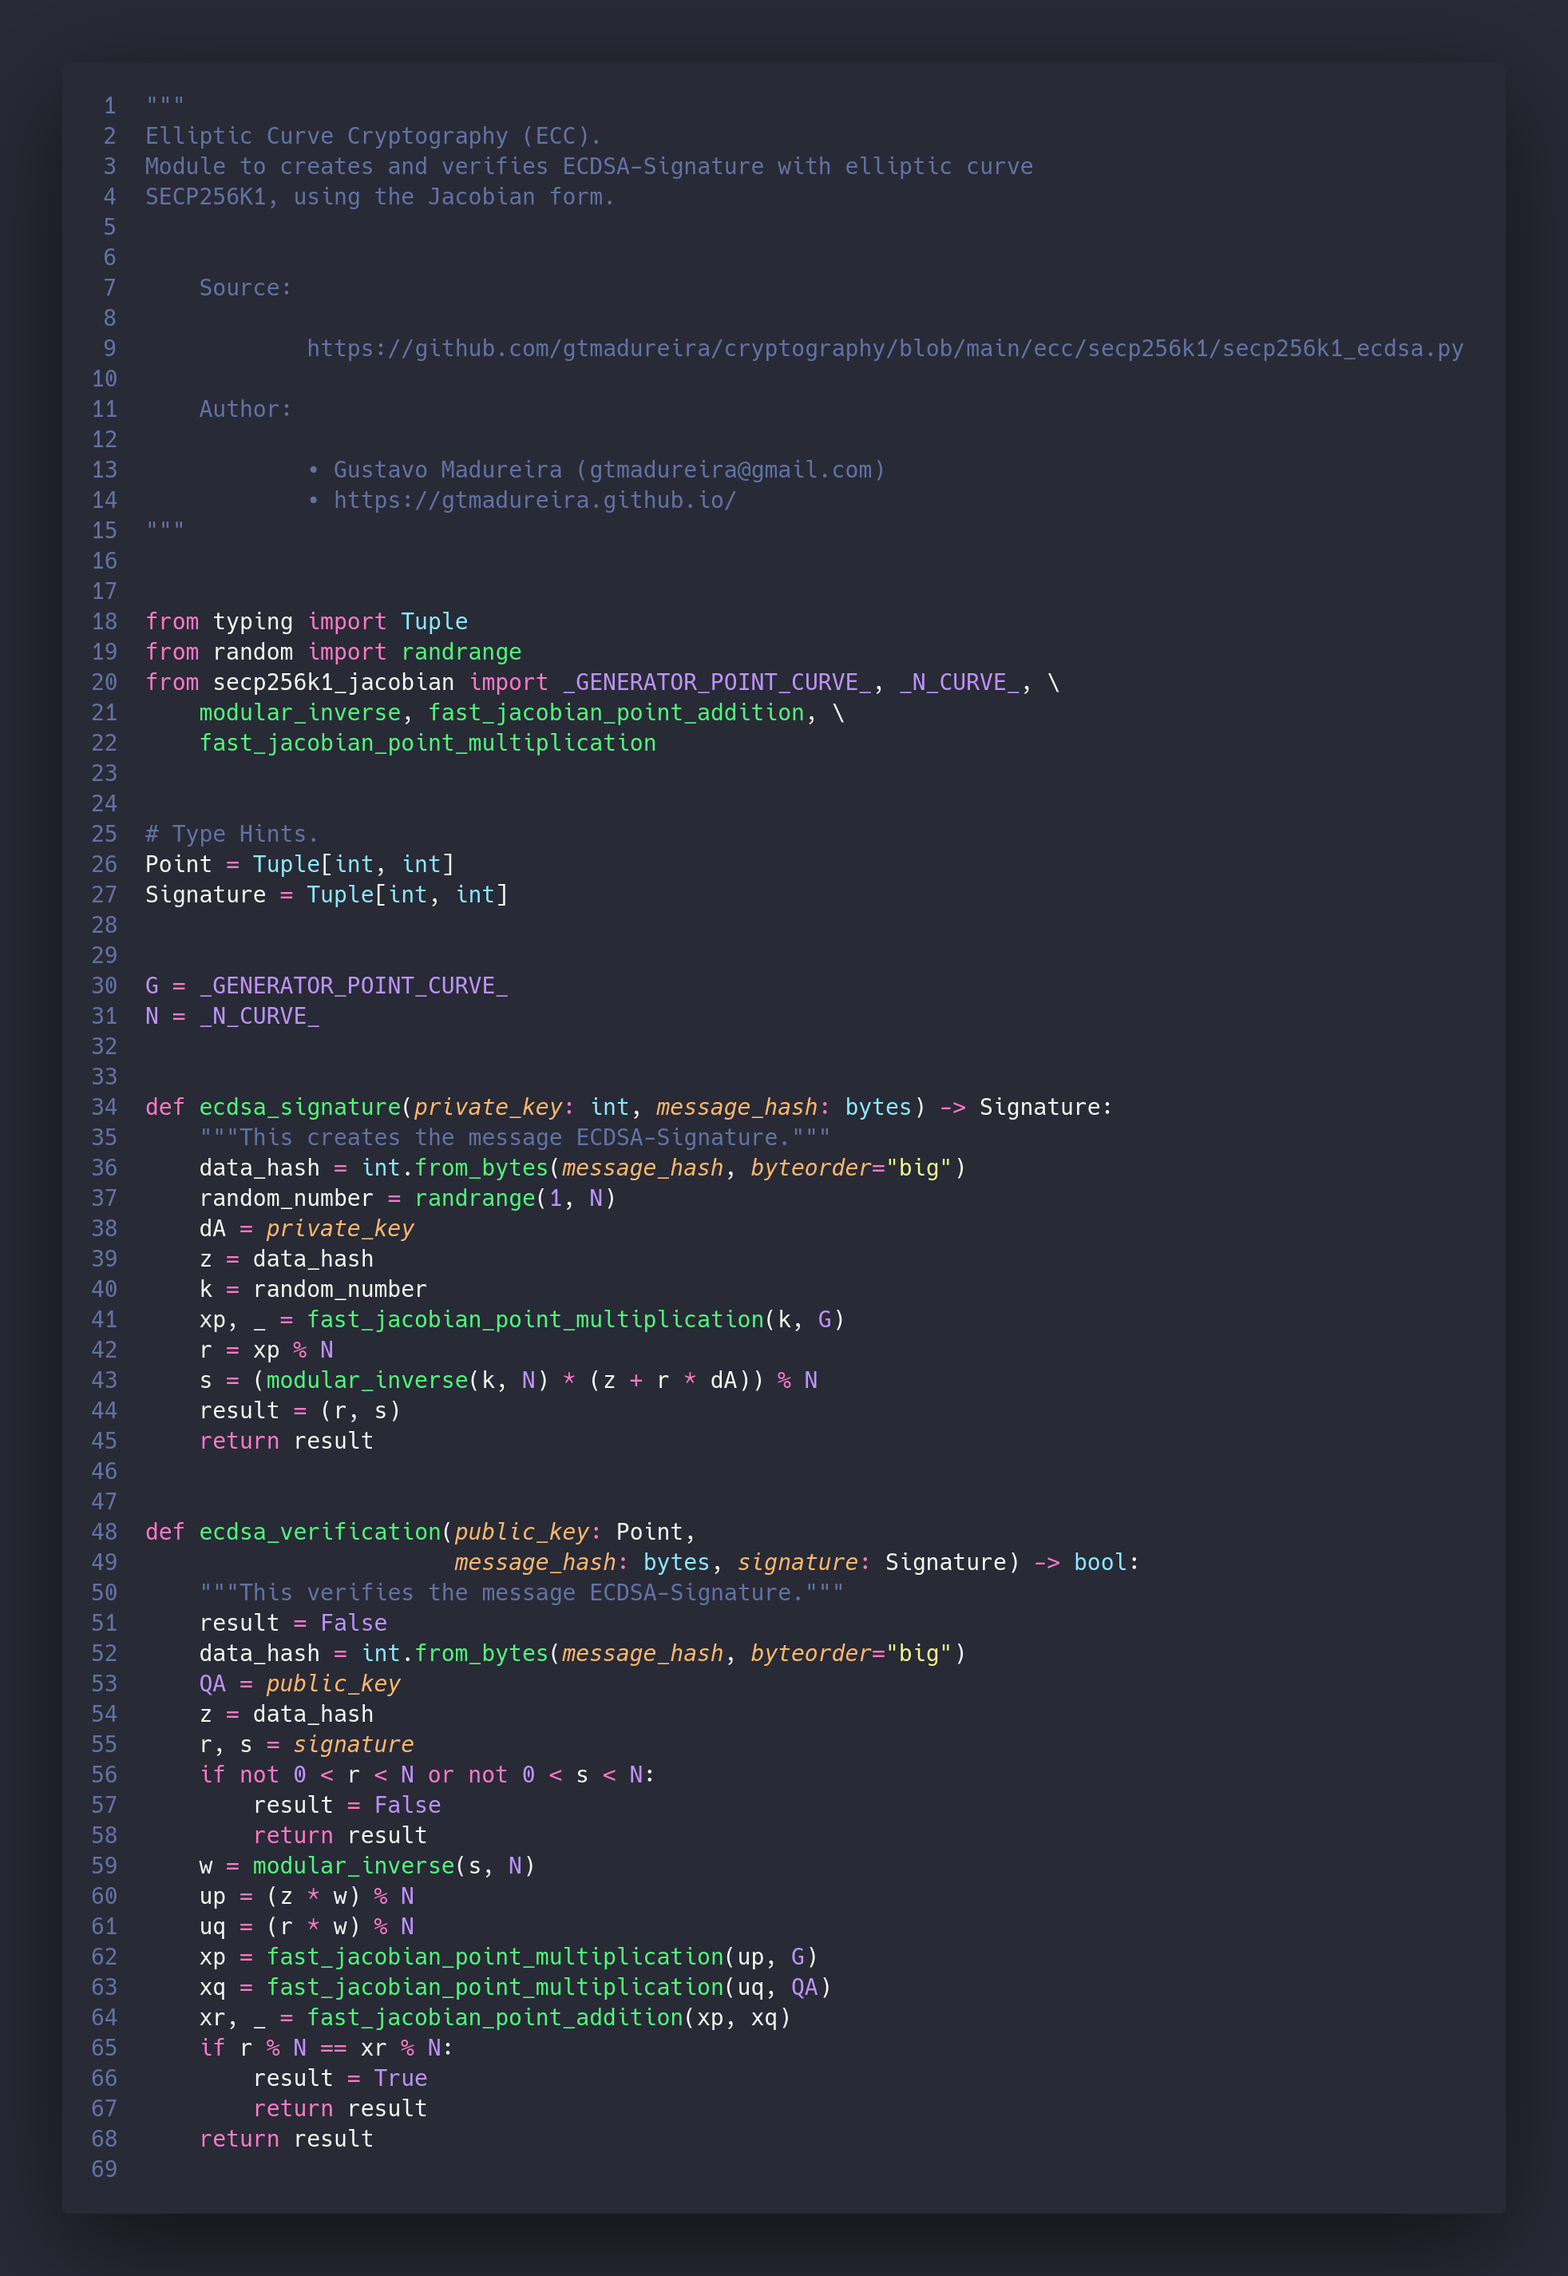
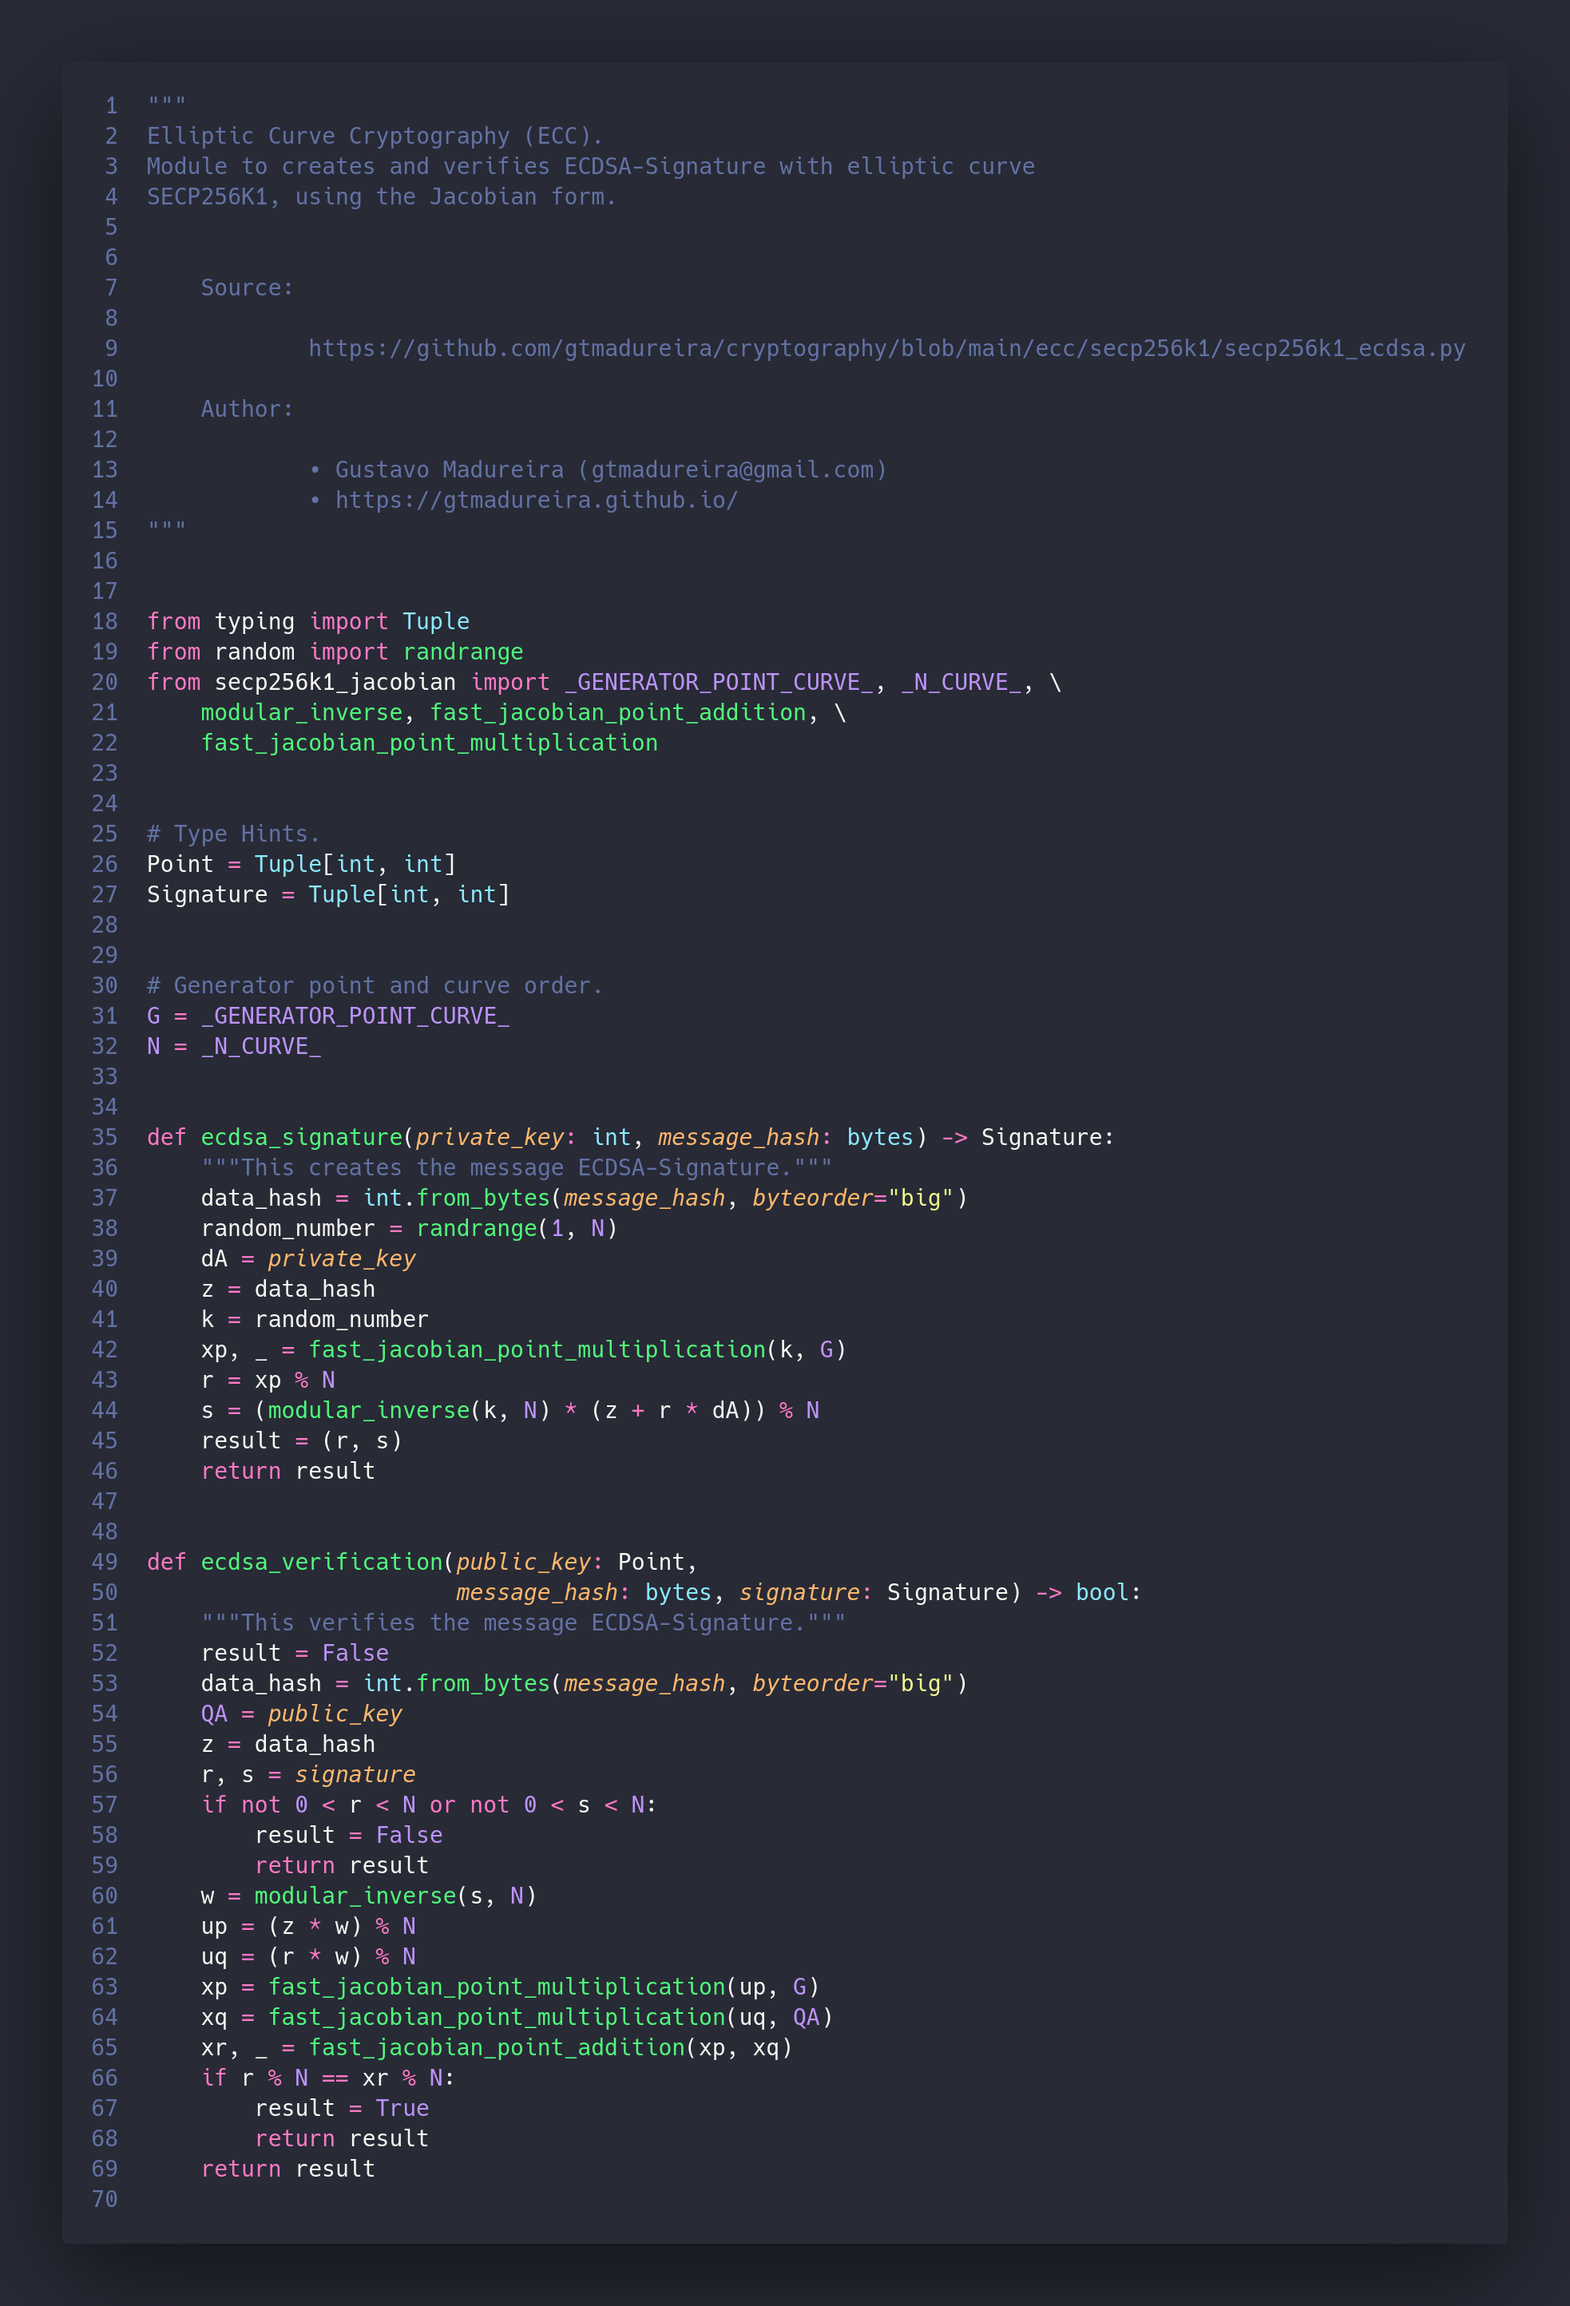
Elliptic Curve Cryptography (ECC), with curve secp256k1.

diff --git a/ecc/secp256k1/secp256k1_jacobian.py b/ecc/secp256k1/secp256k1_jacobian.py
@@ -106,8 +106,8 @@ def modular_inverse(k: int, p: int) -> int:
     """
     Extended Euclidean algorithm/division on the elliptic curve.
 
-    Returns the multiplicative inverse of {k mod p}. Where the only
-    integer {x} is defined such that (k * x) % p == 1.
+    Returns the multiplicative inverse of {k % p}. Where the only
+    integer {x} is defined such that {(k * x) % p == 1}.
 
     {k} must be non-zero and {p} must be a prime.
     """
@@ -143,8 +143,8 @@ def modular_inverse(k: int, p: int) -> int:
 
 def is_infinite(point: Point) -> bool:
     """
-    Returns {True} if the {point} at infinity on the elliptic curve,
-    otherwise it returns {False}.
+    Returns True if the point at infinity on the elliptic curve,
+    otherwise it returns False.
     """
     result = point is _POINT_INFINITY_CURVE_ or 0 in point
     return result
@@ -152,8 +152,8 @@ def is_infinite(point: Point) -> bool:
 
 def is_on_curve(point: Point) -> bool:
     """
-    Returns {True} if the {point} lies on the elliptic curve, otherwise
-    it returns {False}.
+    Returns True if the point lies on the elliptic curve, otherwise it
+    returns False.
     """
     if is_infinite(point):
         result = True
@@ -165,7 +165,7 @@ def is_on_curve(point: Point) -> bool:
 
 def x(point: Point) -> int:
     """
-    Refers to {x} coordinate of {point}, assuming it is not at infinity,
+    Refers to {x} coordinate of point, assuming it is not at infinity,
     then returns {x}.
     """
     assert not is_infinite(point)
@@ -177,7 +177,7 @@ def x(point: Point) -> int:
 
 def y(point: Point) -> int:
     """
-    Refers to {y} coordinate of {point}, assuming it is not at infinity,
+    Refers to {y} coordinate of point, assuming it is not at infinity,
     then returns {y}.
     """
     assert not is_infinite(point)
@@ -189,8 +189,8 @@ def y(point: Point) -> int:
 
 def has_even_y(point: Point) -> bool:
     """
-    Where {point} is not at infinity, it returns {True} if
-    {yp mod 2 = 0}, otherwise it returns {False}.
+    Where point is not at infinity, it returns True if {yp mod 2 = 0},
+    otherwise it returns False.
     """
     assert not is_infinite(point)
     assert is_on_curve(point)
@@ -201,8 +201,8 @@ def has_even_y(point: Point) -> bool:
 
 def is_infinite_jacobian(point: Jacobian_Coordinate) -> bool:
     """
-    Returns {True} if the {point} at infinity on the elliptic curve over
-    Jacobian coordinate, otherwise it returns {False}.
+    Returns True if the point at infinity on the elliptic curve over
+    Jacobian coordinate, otherwise it returns False.
     """
     _, _, zp = point
     result = point is _POINT_INFINITY_JACOBIAN_ or zp == 0
@@ -211,8 +211,8 @@ def is_infinite_jacobian(point: Jacobian_Coordinate) -> bool:
 
 def is_on_curve_jacobian(point: Jacobian_Coordinate) -> bool:
     """
-    Returns {True} if the {point} lies on the elliptic curve over
-    Jacobian coordinate, otherwise it returns {False}.
+    Returns True if the point lies on the elliptic curve over Jacobian
+    coordinate, otherwise it returns False.
     """
     if is_infinite_jacobian(point):
         result = True
@@ -227,7 +227,7 @@ def is_on_curve_jacobian(point: Jacobian_Coordinate) -> bool:
 
 def is_affine_jacobian(point: Jacobian_Coordinate) -> bool:
     """
-    Returns {True} if the {point} is affine form in Jacobian coordinate
+    Returns True if the point is affine form in Jacobian coordinate
     (x, y, 1).
     """
     assert not is_infinite_jacobian(point)
@@ -238,8 +238,8 @@ def is_affine_jacobian(point: Jacobian_Coordinate) -> bool:
 
 def to_jacobian(point: Point) -> Jacobian_Coordinate:
     """
-    Convert an {affine point} to {Jacobian coordinate}, or returns
-    (0, 1, 0) if at infinity.
+    Convert an affine point to Jacobian coordinate, or returns point at
+    infinity.
 
     A Jacobian coordinate is represented as (x, y, z).
     """
@@ -255,8 +255,8 @@ def to_jacobian(point: Point) -> Jacobian_Coordinate:
 
 def from_jacobian(point: Jacobian_Coordinate) -> Point:
     """
-    Convert a {Jacobian coordinate} to {affine point}, or returns (0, 0)
-    if at infinity.
+    Convert a Jacobian coordinate to affine point, or returns point at
+    infinity.
 
     An affine point is represented as (x, y).
     """
@@ -281,7 +281,7 @@ def jacobian_point_doubling(
     Point doubling on the elliptic curve over Jacobian coordinate
     (x, y, z).
 
-    It doubles {Point-P}.
+    It doubles Point-P.
     """
     assert is_on_curve_jacobian(point_p)
     if is_infinite_jacobian(point_p):
@@ -314,7 +314,7 @@ def jacobian_point_addition_mixed(
     coordinate (x, y, z) and affine form in Jacobian coordinate
     (x, y, 1).
 
-    It adds {Point-P} with {Point-Q}.
+    It adds Point-P with Point-Q.
     """
     assert is_on_curve_jacobian(point_p)
     assert is_on_curve_jacobian(point_q)
@@ -354,7 +354,7 @@ def jacobian_point_addition(
     Point addition on the elliptic curve over Jacobian coordinate
     (x, y, z).
 
-    It adds {Point-P} with {Point-Q}.
+    It adds Point-P with Point-Q.
     """
     assert is_on_curve_jacobian(point_p)
     assert is_on_curve_jacobian(point_q)
@@ -401,10 +401,10 @@ def jacobian_point_addition(
 
 def fast_jacobian_point_addition(point_p: Point, point_q: Point) -> Point:
     """
-    Fast point addition on the elliptic curve over Jacobian coordinate
-    (x, y, z).
+    Fast point addition on the elliptic curve over affine (x, y) to
+    Jacobian coordinate (x, y, z).
 
-    It adds {Point-P} with {Point-Q}.
+    It adds Point-P with Point-Q.
     """
     assert is_on_curve(point_p)
     assert is_on_curve(point_q)
@@ -425,10 +425,10 @@ def fast_jacobian_point_addition(point_p: Point, point_q: Point) -> Point:
 
 def fast_jacobian_point_multiplication(scalar: int, point: Point) -> Point:
     """
-    Fast scalar multiplication of {point} on the elliptic curve over
-    Jacobian coordinate (x, y, z).
+    Fast scalar multiplication of point on the elliptic curve over
+    affine (x, y) to Jacobian coordinate (x, y, z).
 
-    It doubles {Point-P} and adds {Point-P} with {Point-Q}.
+    It doubles Point-P and adds Point-P with Point-Q.
     """
     assert is_on_curve(point)
     if scalar == 0 or is_infinite(point):

diff --git a/ecc/secp256k1/secp256k1_weierstrass.py b/ecc/secp256k1/secp256k1_weierstrass.py
@@ -100,8 +100,8 @@ def modular_inverse(k: int, p: int) -> int:
     """
     Extended Euclidean algorithm/division on the elliptic curve.
 
-    Returns the multiplicative inverse of {k mod p}. Where the only
-    integer {x} is defined such that (k * x) % p == 1.
+    Returns the multiplicative inverse of {k % p}. Where the only
+    integer {x} is defined such that {(k * x) % p == 1}.
 
     {k} must be non-zero and {p} must be a prime.
     """
@@ -137,8 +137,8 @@ def modular_inverse(k: int, p: int) -> int:
 
 def is_infinite(point: Point) -> bool:
     """
-    Returns {True} if the {point} at infinity on the elliptic curve,
-    otherwise it returns {False}.
+    Returns True if the point at infinity on the elliptic curve,
+    otherwise it returns False.
     """
     result = point is _POINT_INFINITY_CURVE_ or 0 in point
     return result
@@ -146,8 +146,8 @@ def is_infinite(point: Point) -> bool:
 
 def is_on_curve(point: Point) -> bool:
     """
-    Returns {True} if the {point} lies on the elliptic curve, otherwise
-    it returns {False}.
+    Returns True if the point lies on the elliptic curve, otherwise it
+    returns False.
     """
     if is_infinite(point):
         result = True
@@ -159,7 +159,7 @@ def is_on_curve(point: Point) -> bool:
 
 def x(point: Point) -> int:
     """
-    Refers to {x} coordinate of {point}, assuming it is not at infinity,
+    Refers to {x} coordinate of point, assuming it is not at infinity,
     then returns {x}.
     """
     assert not is_infinite(point)
@@ -171,7 +171,7 @@ def x(point: Point) -> int:
 
 def y(point: Point) -> int:
     """
-    Refers to {y} coordinate of {point}, assuming it is not at infinity,
+    Refers to {y} coordinate of point, assuming it is not at infinity,
     then returns {y}.
     """
     assert not is_infinite(point)
@@ -183,8 +183,8 @@ def y(point: Point) -> int:
 
 def has_even_y(point: Point) -> bool:
     """
-    Where {point} is not at infinity, it returns {True} if
-    {yp mod 2 = 0}, otherwise it returns {False}.
+    Where point is not at infinity, it returns True if {yp mod 2 = 0},
+    otherwise it returns False.
     """
     assert not is_infinite(point)
     assert is_on_curve(point)
@@ -197,7 +197,7 @@ def ec_point_doubling(point_p: Point) -> Point:
     """
     Point doubling on the elliptic curve.
 
-    It doubles {Point-P}.
+    It doubles Point-P.
     """
     assert is_on_curve(point_p)
     if is_infinite(point_p):
@@ -217,7 +217,7 @@ def ec_point_addition(point_p: Point, point_q: Point) -> Point:
     """
     Point addition on the elliptic curve.
 
-    It adds {Point-P} with {Point-Q}.
+    It adds Point-P with Point-Q.
     """
     assert is_on_curve(point_p)
     assert is_on_curve(point_q)
@@ -245,9 +245,9 @@ def ec_point_addition(point_p: Point, point_q: Point) -> Point:
 
 def ec_point_multiplication(scalar: int, point: Point) -> Point:
     """
-    Scalar multiplication of {point} on the elliptic curve.
+    Scalar multiplication of point on the elliptic curve.
 
-    It doubles {Point-P} and adds {Point-P} with {Point-Q}.
+    It doubles Point-P and adds Point-P with Point-Q.
     """
     assert is_on_curve(point)
     if scalar == 0 or is_infinite(point):

diff --git a/ecc/secp256k1/secp256k1_ecdsa.py b/ecc/secp256k1/secp256k1_ecdsa.py
@@ -48,6 +48,7 @@ Point = Tuple[int, int]
 Signature = Tuple[int, int]
 
 
+# Generator point and curve order.
 G = _GENERATOR_POINT_CURVE_
 N = _N_CURVE_
 
